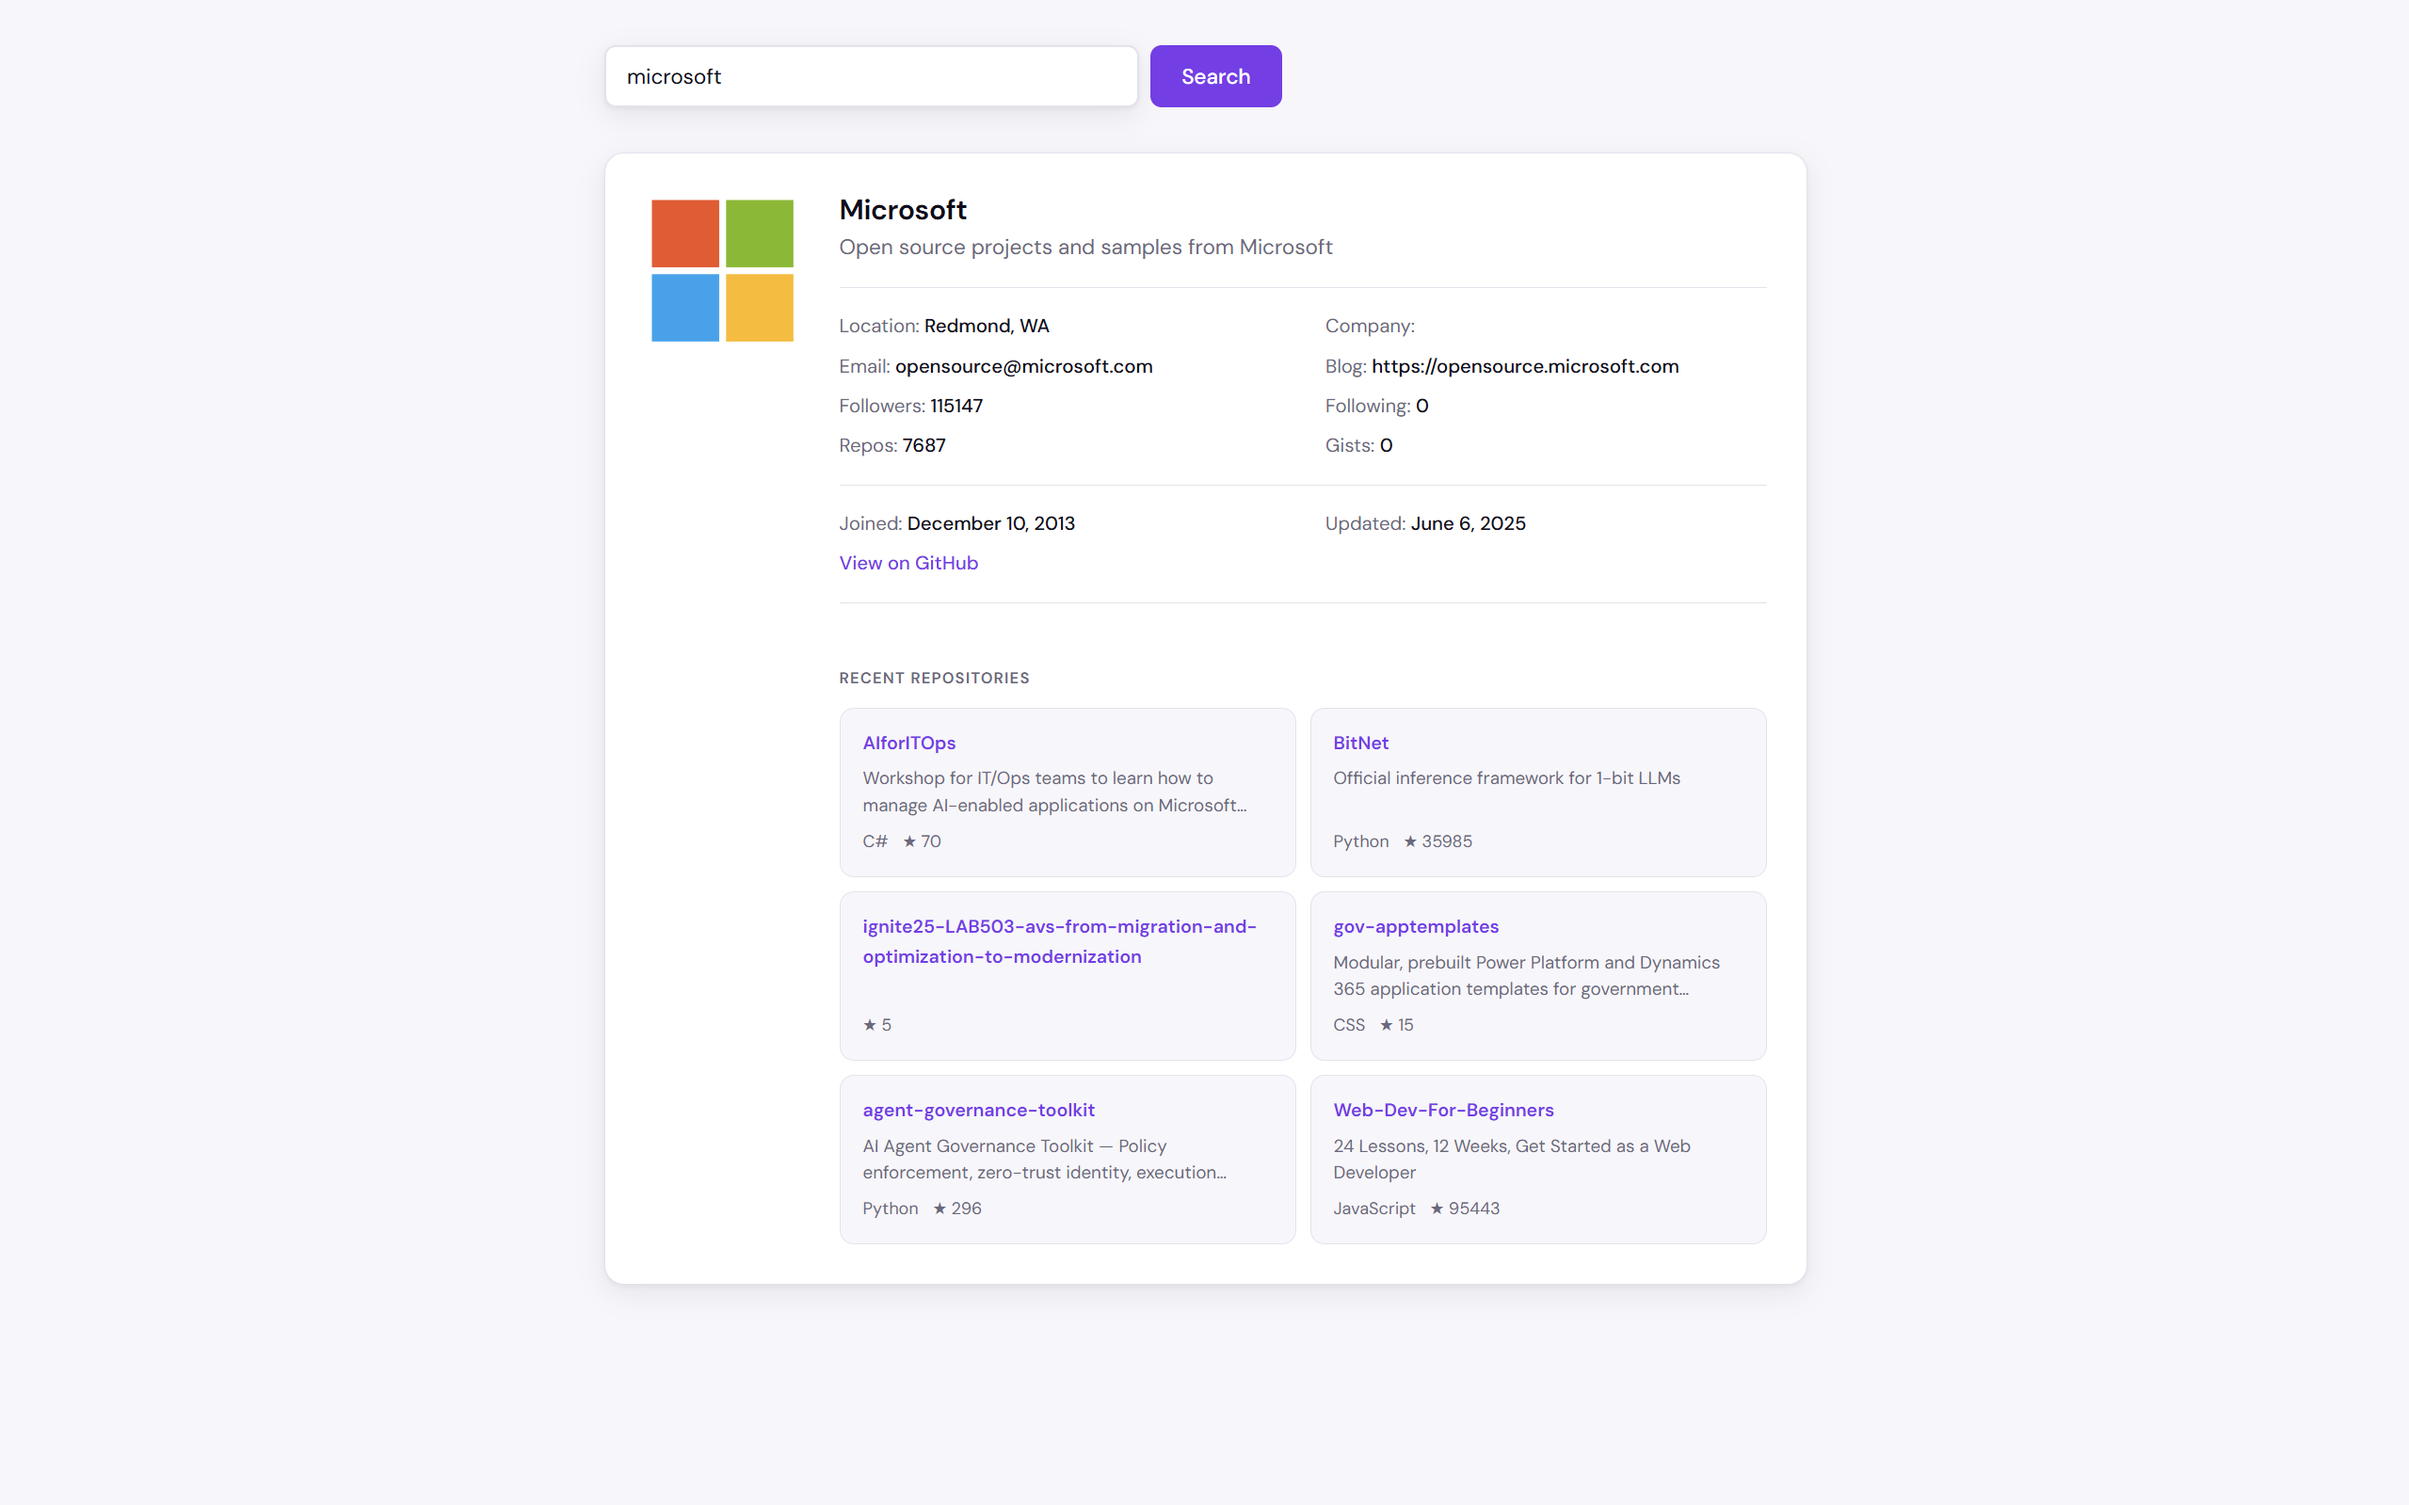
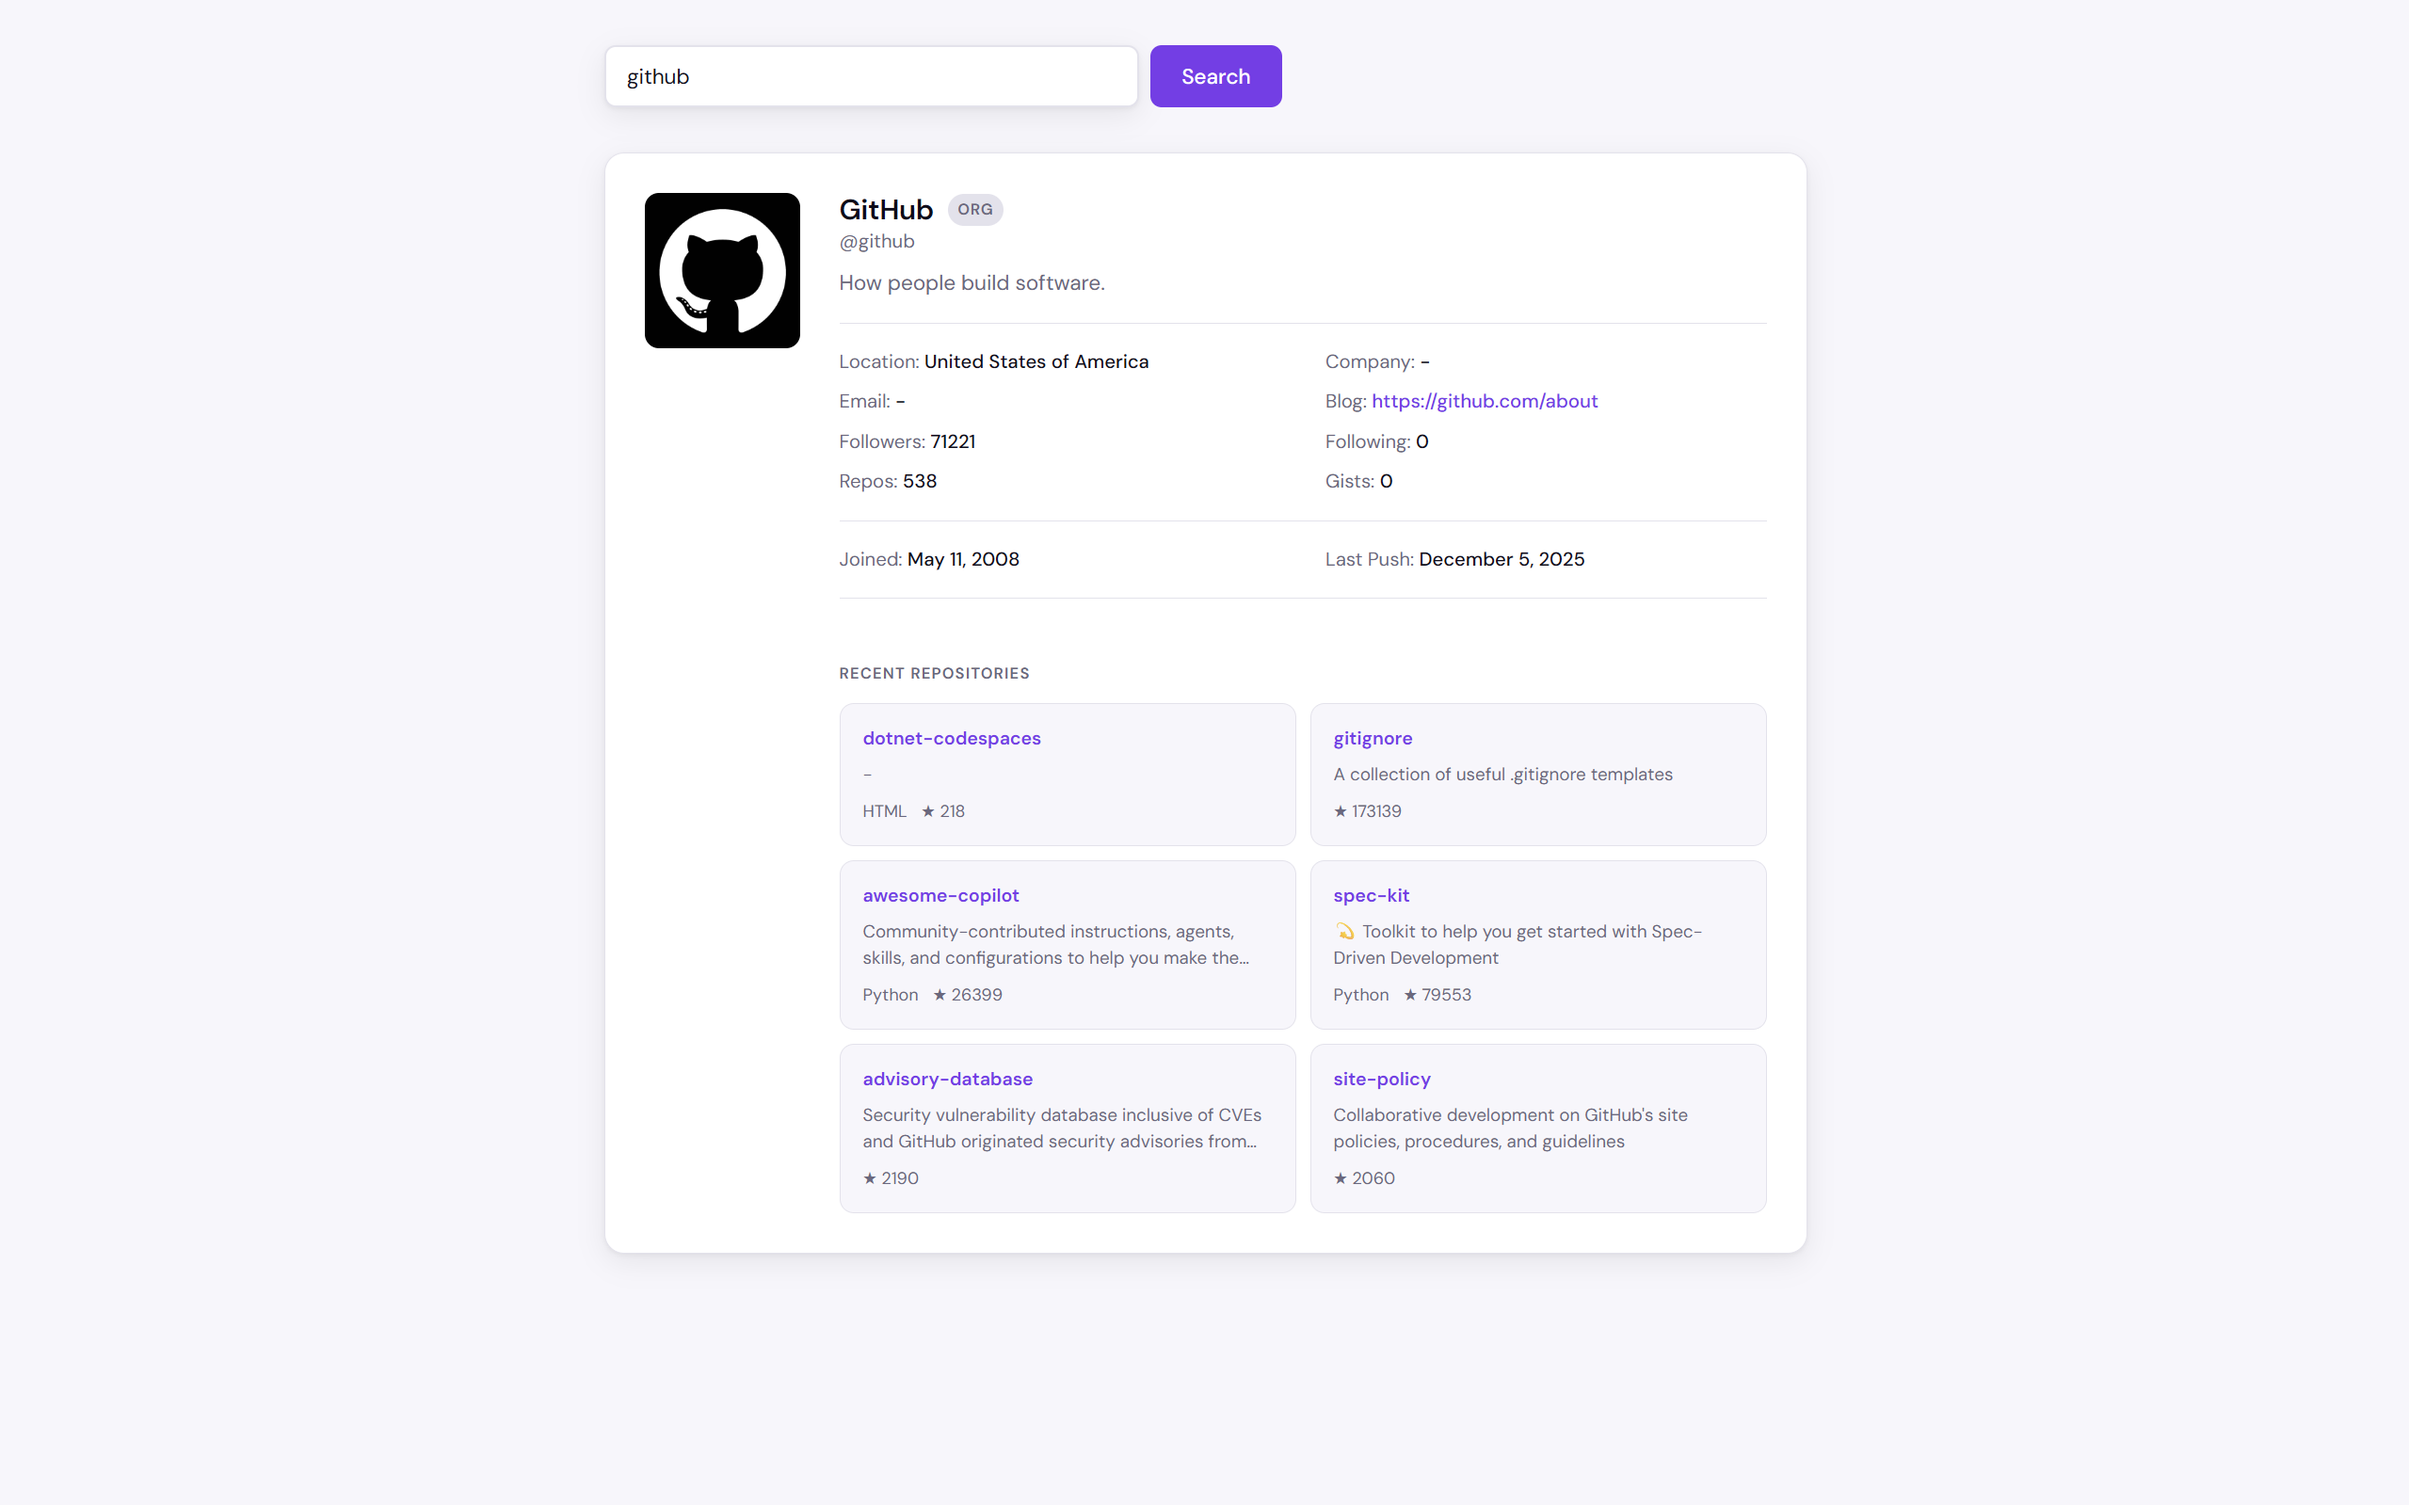
backup token, small additions and changes

diff --git a/src/App.tsx b/src/App.tsx
@@ -14,14 +14,25 @@ function formatDate(iso: string) {
 	})
 }
 
+async function fetchWithFallback(url: string) {
+	const primary = import.meta.env.VITE_GITHUB_TOKEN
+	const secondary = import.meta.env.VITE_GITHUB_TOKEN_BACKUP
+
+	const res = await fetch(url, { headers: {Authorization: `token ${primary}` } })
+
+	if (res.status === 403) {
+		return fetch(url, { headers: { Authorization: `token ${secondary}` } })
+	}
+
+	return res
+}
+
 async function handleSearch() {
 	if (!username.trim()) return
 
-	const headers = { Authorization: `token ${import.meta.env.VITE_GITHUB_TOKEN}` }
-
 	const [userRes, reposRes] = await Promise.all([
-		fetch(`https://api.github.com/users/${username}`, { headers }),
-		fetch(`https://api.github.com/users/${username}/repos?sort=updated&per_page=6`, { headers })
+		fetchWithFallback(`https://api.github.com/users/${username}`),
+		fetchWithFallback(`https://api.github.com/users/${username}/repos?sort=updated&per_page=6`)
     ])
 	if (!userRes.ok) {
 		setUser(null)
@@ -40,7 +51,7 @@ async function handleSearch() {
 				<input value={username} 
 					onChange={e => setUsername(e.target.value)}
 					onKeyDown={e => e.key === 'Enter' && handleSearch()}
-					placeholder='Enter a GitHub Username...'
+					placeholder='Enter a GitHub Username'
 				/>
 				<button onClick={handleSearch}>Search</button>
 			</div>
@@ -49,21 +60,27 @@ async function handleSearch() {
 				<div className='profile'>
 					<img src={user.avatar_url}></img>
 					<div className='profile-info'>
-						<h2>{user.name}</h2>
+						<div className='profile-name-row'>
+							<h2>{user.name}</h2>
+							<span className={`profile-type ${user.type === 'Organization' ? 'type-org' : 'type-user'}`}>
+								{user.type === 'Organization' ? 'Org' : 'User'}
+							</span>
+						</div>
+						<a className='profile-username' href={user.html_url} target='_blank'>@{user.login}</a>
 						<p>{user.bio}</p>
 						{user.hireable && <p className='hireable'>Available for Hire</p>}
 						
 						<hr className='profile-divider'></hr>
 
 						<div className='profile-stats'>
-							<p className='profile-stat'>Location: <span>{user.location}</span></p>
-							<p className='profile-stat'>Company: <span>{user.company}</span></p>
-							<p className='profile-stat'>Email: <span>{user.email}</span></p>
-							<p className='profile-stat'>Blog: <span><a className='profile-link' href={user.blog} target='_blank'>{user.blog}</a></span></p>
-							<p className='profile-stat'>Followers: <span>{user.followers}</span></p>
-							<p className='profile-stat'>Following: <span>{user.following}</span></p>
-							<p className='profile-stat'>Repos: <span>{user.public_repos}</span></p>
-							<p className='profile-stat'>Gists: <span>{user.public_gists}</span></p>
+							<p className='profile-stat'>Location: <span>{user.location ?? '-'}</span></p>
+							<p className='profile-stat'>Company: <span>{user.company ?? '-'}</span></p>
+							<p className='profile-stat'>Email: <span>{user.email ?? '-'}</span></p>
+							<p className='profile-stat'>Blog: <span><a className='profile-link' href={user.blog} target='_blank'>{user.blog ?? '-'}</a></span></p>
+							<p className='profile-stat'>Followers: <span>{user.followers ?? '-'}</span></p>
+							<p className='profile-stat'>Following: <span>{user.following ?? '-'}</span></p>
+							<p className='profile-stat'>Repos: <span>{user.public_repos ?? '-'}</span></p>
+							<p className='profile-stat'>Gists: <span>{user.public_gists ?? '-'}</span></p>
 						</div>
 
 						<hr className='profile-divider'></hr>
@@ -73,7 +90,6 @@ async function handleSearch() {
 							{repos.length > 0 && (
 								<p className='profile-stat'>Last Push: <span>{formatDate(repos[0].pushed_at)}</span></p>
 							)}
-							<p className='profile-stat'><span><a className='profile-link' href={user.html_url} target='_blank'>View on GitHub</a></span></p>
 						</div>
 
 						<hr className='profile-divider'></hr>
@@ -84,7 +100,7 @@ async function handleSearch() {
 								{repos.map(repo => (
 									<a key={repo.id} className='repo-card' href={repo.html_url} target='_blank'>
 										<p className='repo-name'>{repo.name}</p>
-										<p className='repo-desc'>{repo.description}</p>
+										<p className='repo-desc'>{repo.description ?? '-'}</p>
 										<div className='repo-meta'>
 											{repo.language && <span>{repo.language}</span>}
 											<span>★ {repo.stargazers_count}</span>

diff --git a/src/App.css b/src/App.css
@@ -78,6 +78,24 @@
 
 .profile-info h2 { margin: 0 0 2px; }
 
+.profile-name-row {
+  display: flex;
+  align-items: center;
+  gap: 10px;
+  margin-bottom: 2px;
+}
+.profile-name-row h2 { margin: 0; }
+
+.profile-username {
+  font-size: 13.5px;
+  color: var(--text);
+  text-decoration: none;
+  margin-bottom: 6px;
+  margin-top: -3px;
+  width: fit-content;
+  &:hover { color: var(--accent); }
+}
+
 .bio {
   color: var(--text);
   font-size: 14px;
@@ -123,6 +141,17 @@
   text-decoration: none;
   &:hover { text-decoration: underline; text-underline-offset: 3px; }
 }
+
+.profile-type {
+  font-size: 11px;
+  font-weight: 600;
+  padding: 2px 7px;
+  border-radius: 99px;
+  text-transform: uppercase;
+  letter-spacing: 0.5px;
+}
+.type-user { background: var(--border); color: var(--text); }
+.type-org  { background: var(--border); color: var(--text); }
 
 /* ── Repos ──────────────────────────────────────── */
 

diff --git a/CHANGELOG.md b/CHANGELOG.md
@@ -5,10 +5,24 @@ All notable changes to this project will be documented in this file.
 The format is based on [Keep a Changelog](https://keepachangelog.com/en/1.1.0/),
 and this project adheres to [Semantic Versioning](https://semver.org/spec/v2.0.0.html).
 
+[0.3.2]: https://github.com/johnarp/github-profile-viewer/compare/v0.3.1...v0.3.2
 [0.3.1]: https://github.com/johnarp/github-profile-viewer/compare/v0.3.0...v0.3.1
 [0.3.0]: https://github.com/johnarp/github-profile-viewer/compare/v0.2.0...v0.3.0
 [0.2.0]: https://github.com/johnarp/github-profile-viewer/compare/v0.1.0...v0.2.0
 [0.1.0]: https://github.com/johnarp/github-profile-viewer/releases/tag/v0.1.0
+
+## [0.3.2] - 2026-03-22
+
+### Added
+
+- Backup token if usage exceeds 5000 requests/hr
+- User/Org tag beside name
+- `-` placeholders for profile stats and repo descriptions
+
+### Changed
+
+- "View on GitHub" is now an `@login` beneath the name
+- New README preview image
 
 ## [0.3.1] - 2026-03-20
 
